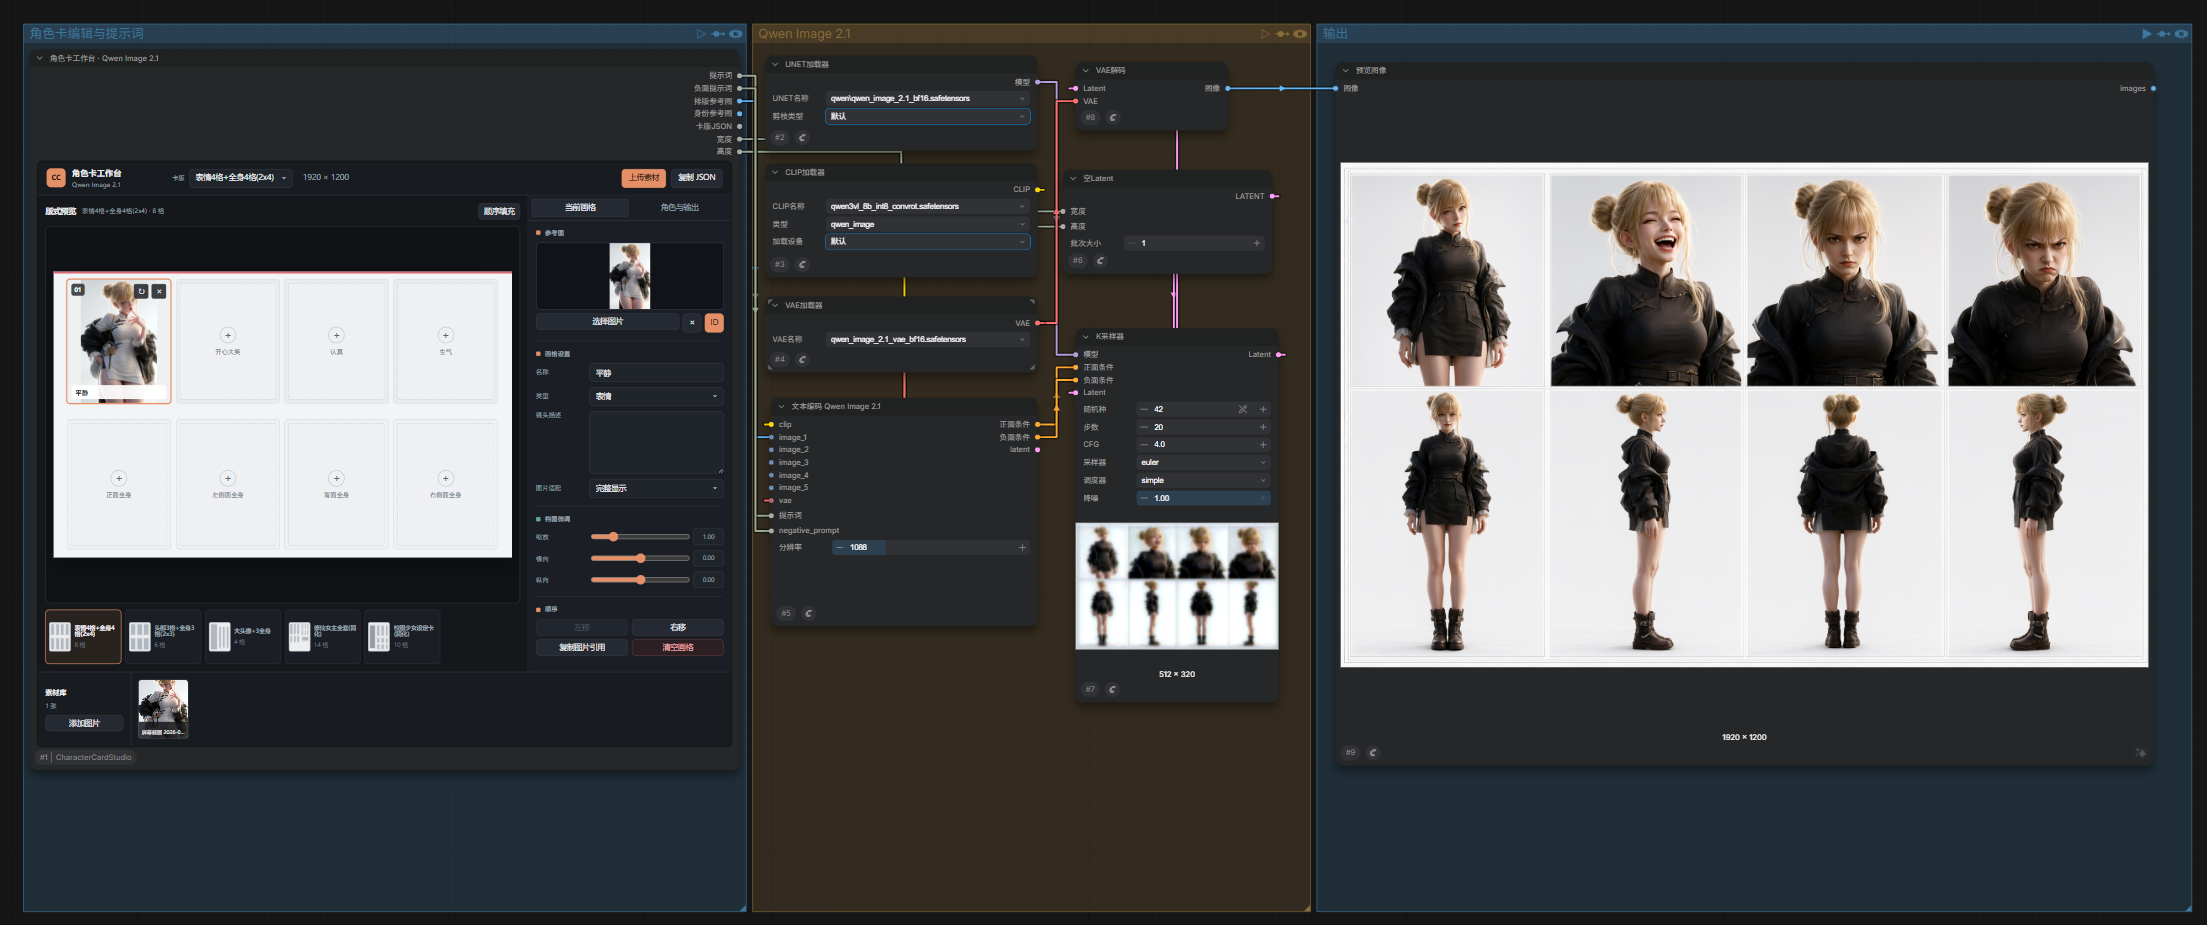
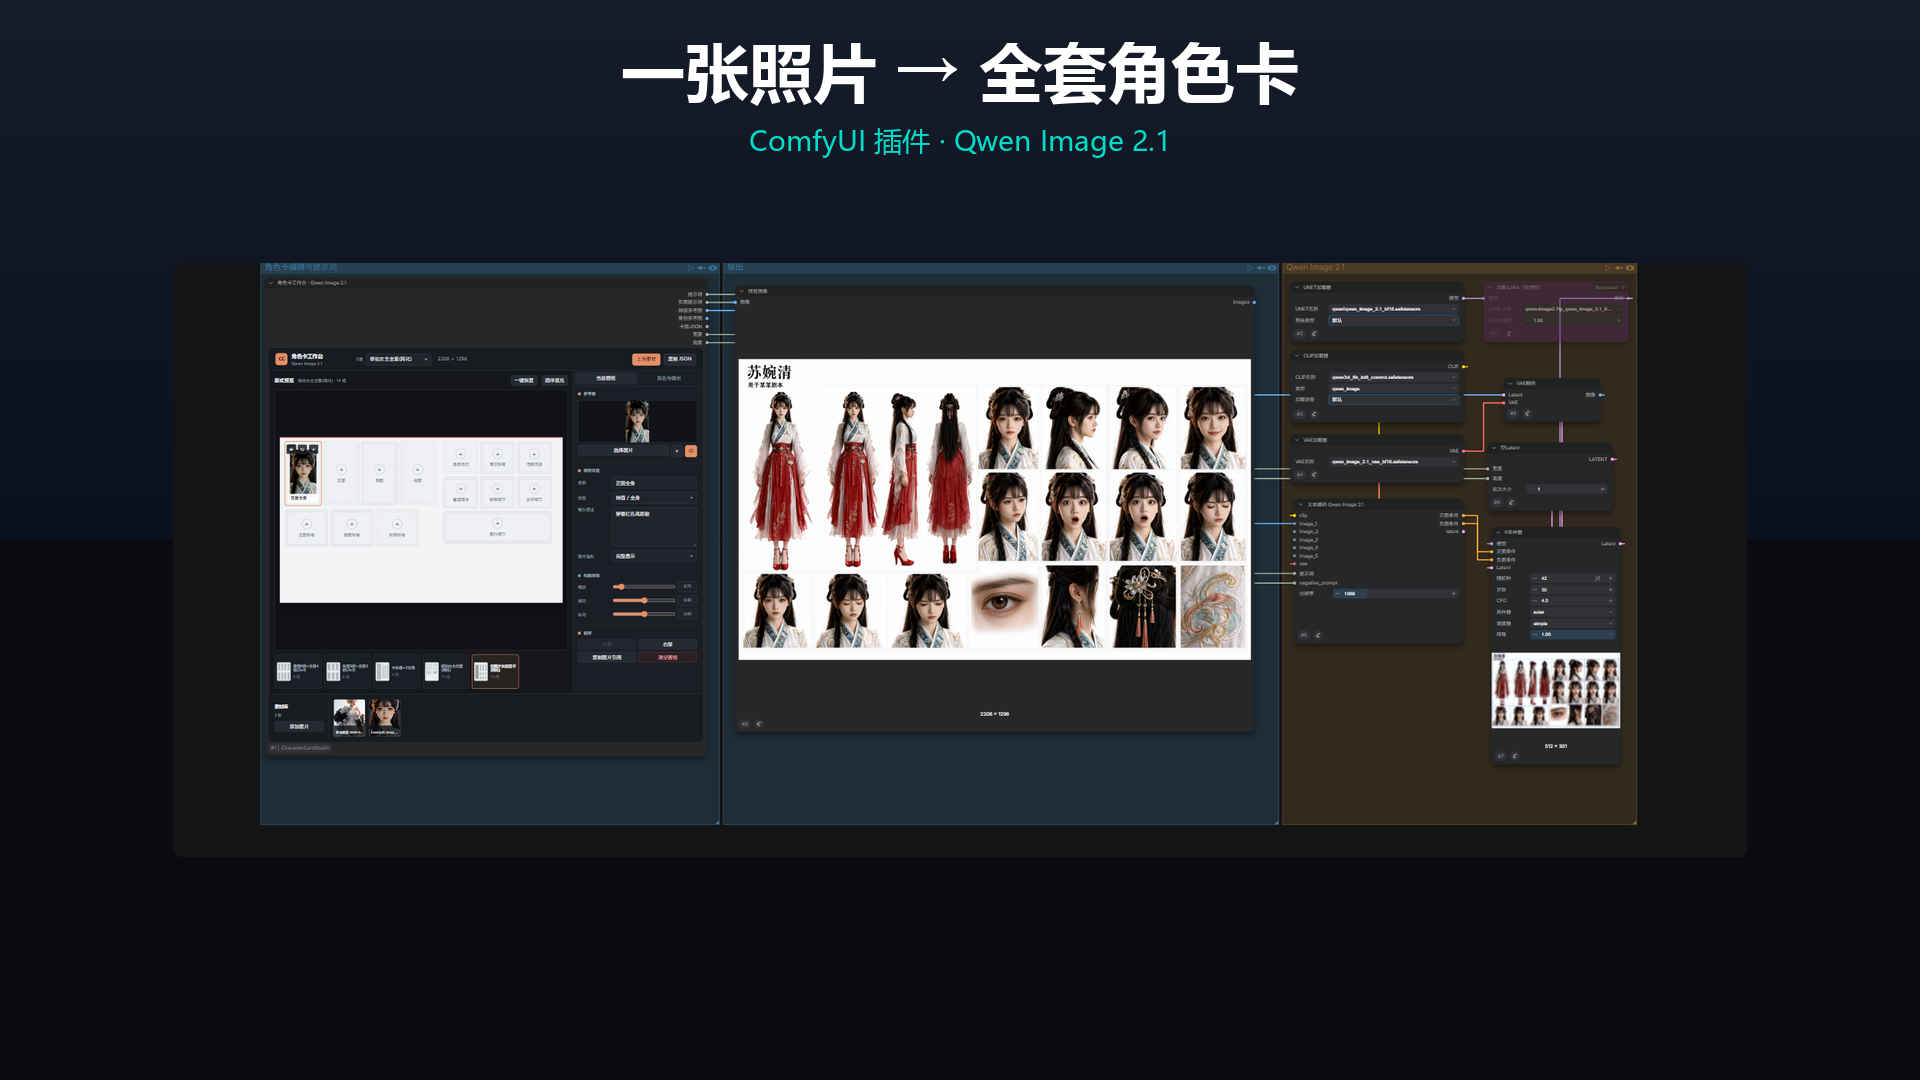
feat: 新增3套卡板，共8套按格子数排序，通用命名
1. 四格·偏立（4格）：左大头像+右3全身竖排
2. 四格·双帧（4格）：上2头+下2全身
3. 五格·正反（5格）：上2头(正/背)+下3全身
4. 六格·三视图（6格）：上3头(正/侧/背)+下3全身
5. 六格·斜帧（6格）：上3头(正/斜/背)+下3全身
6. 八格·表情谱（8格）：上4表情+下4全身
7. 十格·设定集（10格）：主立绘+三视图+表情+细节
8. 十四格·全图鉴（14格）：完整资产图鉴

diff --git a/templates.py b/templates.py
@@ -42,10 +42,120 @@ def _cell(
 
 
 TEMPLATES: list[dict[str, Any]] = [
-    # ===== 用户目标版式：上传一张图 → 输出干净多视图 =====
+    # ===== 1. 四格·偏立（4格：左大头像 + 右3全身竖排）=====
+    {
+        "id": "bighead_body3",
+        "name": "四格·偏立",
+        "description": "左侧一个超大头肩特写，右侧竖排正面/侧面/背面三个完整全身。",
+        "width": 1920,
+        "height": 1200,
+        "defaults": {
+            "title": "未命名角色",
+            "subtitle": "角色设定",
+            "style": "统一角色资产，纯白棚拍背景，柔和棚拍光，写实电影级",
+            "background": "#ffffff",
+            "accent": "#d86b73",
+        },
+        "cells": [
+            _cell("head_big", "大头像", "portrait", "超大头肩正面特写，五官清晰，正视镜头。", 0.03, 0.03, 0.40, 0.94),
+            _cell("body_front", "正面全身", "turnaround", "完整正面全身，头顶到鞋底。", 0.46, 0.12, 0.16, 0.78),
+            _cell("body_side", "侧面全身", "turnaround", "纯侧面全身，人物面朝画面正右方，只能看到左半边脸和左耳，头顶到鞋底。", 0.635, 0.12, 0.16, 0.78),
+            _cell("body_back", "背面全身", "turnaround", "完整180度背面全身，头顶到鞋底。", 0.81, 0.12, 0.16, 0.78),
+        ],
+    },
+    # ===== 2. 四格·双帧（4格：上排2头 + 下排2全身）=====
+    {
+        "id": "dualfour_ref",
+        "name": "四格·双帧",
+        "description": "上排正面头像+侧面头像，下排正面全身+背面全身。",
+        "width": 1920,
+        "height": 1200,
+        "defaults": {
+            "title": "未命名角色",
+            "subtitle": "双视设定",
+            "style": "统一角色资产，纯白棚拍背景，柔和棚拍光，写实电影级",
+            "background": "#ffffff",
+            "accent": "#6b8dd8",
+        },
+        "cells": [
+            _cell("head_front", "正面头像", "portrait", "头肩正面特写，正视镜头。", 0.03, 0.03, 0.46, 0.43),
+            _cell("head_side", "侧面头像", "portrait", "头肩90度侧面特写，人物面朝画面正右方，只能看到左半边脸和左耳。", 0.51, 0.03, 0.46, 0.43),
+            _cell("body_front", "正面全身", "turnaround", "完整正面全身，正视镜头，头顶到鞋底。", 0.03, 0.52, 0.46, 0.45),
+            _cell("body_back", "背面全身", "turnaround", "完整180度背面全身，头顶到鞋底。", 0.51, 0.52, 0.46, 0.45),
+        ],
+    },
+    # ===== 3. 五格·正反（5格：上排2头 + 下排3全身）=====
+    {
+        "id": "fiveref",
+        "name": "五格·正反",
+        "description": "上排正面头像+背面头像，下排正面/侧面/背面三个完整全身。",
+        "width": 1920,
+        "height": 1200,
+        "defaults": {
+            "title": "未命名角色",
+            "subtitle": "五视设定",
+            "style": "统一角色资产，纯白棚拍背景，柔和棚拍光，写实电影级",
+            "background": "#ffffff",
+            "accent": "#65a89a",
+        },
+        "cells": [
+            _cell("head_front", "正面头像", "portrait", "头肩正面特写，正视镜头。", 0.03, 0.03, 0.47, 0.43),
+            _cell("head_back", "背面头像", "portrait", "头肩背面特写，展示后脑发型。", 0.50, 0.03, 0.47, 0.43),
+            _cell("body_front", "正面全身", "turnaround", "完整正面全身，正视镜头，头顶到鞋底。", 0.03, 0.52, 0.305, 0.45),
+            _cell("body_side", "侧面全身", "turnaround", "纯侧面全身，人物面朝画面正右方，只能看到左半边脸和左耳，头顶到鞋底。", 0.348, 0.52, 0.305, 0.45),
+            _cell("body_back", "背面全身", "turnaround", "完整180度背面全身，头顶到鞋底。", 0.665, 0.52, 0.305, 0.45),
+        ],
+    },
+    # ===== 4. 六格·三视图（6格：上排3头 + 下排3全身）=====
+    {
+        "id": "head_body_6",
+        "name": "六格·三视图",
+        "description": "上排头肩正面/侧面/后脑，下排正面/侧面/背面完整全身。",
+        "width": 1920,
+        "height": 1280,
+        "defaults": {
+            "title": "未命名角色",
+            "subtitle": "三视图设定",
+            "style": "统一角色资产，纯白棚拍背景，柔和棚拍光，写实电影级",
+            "background": "#ffffff",
+            "accent": "#6b8dd8",
+        },
+        "cells": [
+            _cell("head_front", "正面头像", "portrait", "头肩正面特写，正视镜头。", 0.03, 0.03, 0.303, 0.43),
+            _cell("head_side", "侧面头像", "portrait", "头肩90度侧面特写，人物面朝画面正右方，只能看到左半边脸和左耳。", 0.345, 0.03, 0.303, 0.43),
+            _cell("head_back", "后脑头像", "portrait", "头肩背面特写，展示后脑发型。", 0.66, 0.03, 0.303, 0.43),
+            _cell("body_front", "正面全身", "turnaround", "完整正面全身，正视镜头，头顶到鞋底。", 0.03, 0.52, 0.303, 0.45),
+            _cell("body_side", "侧面全身", "turnaround", "纯侧面全身，人物面朝画面正右方，只能看到左半边脸和左耳，头顶到鞋底。", 0.345, 0.52, 0.303, 0.45),
+            _cell("body_back", "背面全身", "turnaround", "完整180度背面全身，头顶到鞋底。", 0.66, 0.52, 0.303, 0.45),
+        ],
+    },
+    # ===== 5. 六格·斜帧（6格：上排3头含四分之三视角 + 下排3全身）=====
+    {
+        "id": "sixtilt_ref",
+        "name": "六格·斜帧",
+        "description": "上排正面/四分之三斜侧/后脑三个头像，下排正面/侧面/背面三个完整全身。",
+        "width": 1920,
+        "height": 1280,
+        "defaults": {
+            "title": "未命名角色",
+            "subtitle": "斜侧设定",
+            "style": "统一角色资产，纯白棚拍背景，柔和棚拍光，写实电影级",
+            "background": "#ffffff",
+            "accent": "#9b7dd8",
+        },
+        "cells": [
+            _cell("head_front", "正面头像", "portrait", "头肩正面特写，正视镜头。", 0.03, 0.03, 0.303, 0.43),
+            _cell("head_three_quarter", "斜侧头像", "portrait", "头肩四分之三斜侧特写，脸朝画面右前方，眼神看向镜头。", 0.345, 0.03, 0.303, 0.43),
+            _cell("head_back", "后脑头像", "portrait", "头肩背面特写，展示后脑发型。", 0.66, 0.03, 0.303, 0.43),
+            _cell("body_front", "正面全身", "turnaround", "完整正面全身，正视镜头，头顶到鞋底。", 0.03, 0.52, 0.303, 0.45),
+            _cell("body_side", "侧面全身", "turnaround", "纯侧面全身，人物面朝画面正右方，只能看到左半边脸和左耳，头顶到鞋底。", 0.345, 0.52, 0.303, 0.45),
+            _cell("body_back", "背面全身", "turnaround", "完整180度背面全身，头顶到鞋底。", 0.66, 0.52, 0.303, 0.45),
+        ],
+    },
+    # ===== 6. 八格·表情谱（8格：上排4表情 + 下排4全身）=====
     {
         "id": "expr_body_8",
-        "name": "表情4格+全身4格(2x4)",
+        "name": "八格·表情谱",
         "description": "上排4个头肩表情，下排4个完整全身（正/侧/背/另一侧）。",
         "width": 1920,
         "height": 1200,
@@ -67,58 +177,44 @@ TEMPLATES: list[dict[str, Any]] = [
             _cell("body_back", "背面全身", "turnaround", "完整180度背面全身，只能看到后脑和后背，头顶到鞋底。", 0.743, 0.52, 0.225, 0.45),
         ],
     },
+    # ===== 7. 十格·设定集（10格：主立绘+3全身+3表情+3细节）=====
     {
-        "id": "head_body_6",
-        "name": "头部3格+全身3格(2x3)",
-        "description": "上排头肩正面/侧面/后脑，下排正面/侧面/背面完整全身。",
-        "width": 1920,
-        "height": 1280,
+        "id": "school_ref",
+        "name": "十格·设定集",
+        "description": "左侧主立绘，右上三视图，右下表情参考与细节拆解。",
+        "width": 2000,
+        "height": 1400,
         "defaults": {
             "title": "未命名角色",
-            "subtitle": "三视图设定",
-            "style": "统一角色资产，纯白棚拍背景，柔和棚拍光，写实电影级",
+            "subtitle": "角色设定集",
+            "style": "统一角色资产，纯白棚拍背景，柔和棚拍光",
             "background": "#ffffff",
-            "accent": "#6b8dd8",
+            "accent": "#e08a9a",
         },
         "cells": [
-            _cell("head_front", "正面头像", "portrait", "头肩正面特写，正视镜头。", 0.03, 0.03, 0.303, 0.43),
-            _cell("head_side", "侧面头像", "portrait", "头肩90度侧面特写，人物面朝画面正右方，只能看到左半边脸和左耳。", 0.345, 0.03, 0.303, 0.43),
-            _cell("head_back", "后脑头像", "portrait", "头肩背面特写，展示后脑发型。", 0.66, 0.03, 0.303, 0.43),
-            _cell("body_front", "正面全身", "turnaround", "完整正面全身，正视镜头，头顶到鞋底。", 0.03, 0.52, 0.303, 0.45),
-            _cell("body_side", "侧面全身", "turnaround", "纯侧面全身，人物面朝画面正右方，只能看到左半边脸和左耳，头顶到鞋底。", 0.345, 0.52, 0.303, 0.45),
-            _cell("body_back", "背面全身", "turnaround", "完整180度背面全身，头顶到鞋底。", 0.66, 0.52, 0.303, 0.45),
+            _cell("hero", "主立绘", "hero", "完整全身主立绘，自然站姿，头顶到鞋底。", 0.03, 0.08, 0.30, 0.86),
+            _cell("body_front", "正面", "turnaround", "完整正面全身，正视镜头，头顶到鞋底。", 0.36, 0.08, 0.20, 0.40),
+            _cell("body_side", "侧面", "turnaround", "纯侧面全身，人物面朝画面正右方，只能看到左半边脸和左耳，头顶到鞋底。", 0.58, 0.08, 0.20, 0.40),
+            _cell("body_back", "背面", "turnaround", "完整180度背面全身，头顶到鞋底。", 0.80, 0.08, 0.17, 0.40),
+            _cell("ex_1", "微笑", "expression", "头肩特写，张嘴露齿微笑，眼睛弯成月牙，充满活力。", 0.36, 0.52, 0.20, 0.20),
+            _cell("ex_2", "沉思", "expression", "头肩特写，低头眼帘下垂，侧脸不看镜头，表情安静。", 0.58, 0.52, 0.20, 0.20),
+            _cell("ex_3", "惊讶", "expression", "头肩特写，张嘴惊呼，眼睛瞪大。", 0.80, 0.52, 0.17, 0.20),
+            _cell("de_1", "服装细节", "detail", "服饰面料特写。", 0.36, 0.75, 0.20, 0.20),
+            _cell("de_2", "配饰细节", "detail", "配饰特写。", 0.58, 0.75, 0.20, 0.20),
+            _cell("de_3", "鞋履细节", "detail", "鞋履特写。", 0.80, 0.75, 0.17, 0.20),
         ],
     },
-    {
-        "id": "bighead_body3",
-        "name": "大头像+3全身",
-        "description": "左侧一个超大头肩特写，右侧竖排正面/侧面/背面三个完整全身。",
-        "width": 1920,
-        "height": 1200,
-        "defaults": {
-            "title": "未命名角色",
-            "subtitle": "角色设定",
-            "style": "统一角色资产，纯白棚拍背景，柔和棚拍光，写实电影级",
-            "background": "#ffffff",
-            "accent": "#d86b73",
-        },
-        "cells": [
-            _cell("head_big", "大头像", "portrait", "超大头肩正面特写，五官清晰，正视镜头。", 0.03, 0.03, 0.40, 0.94),
-            _cell("body_front", "正面全身", "turnaround", "完整正面全身，头顶到鞋底。", 0.46, 0.12, 0.16, 0.78),
-            _cell("body_side", "侧面全身", "turnaround", "纯侧面全身，人物面朝画面正右方，只能看到左半边脸和左耳，头顶到鞋底。", 0.635, 0.12, 0.16, 0.78),
-            _cell("body_back", "背面全身", "turnaround", "完整180度背面全身，头顶到鞋底。", 0.81, 0.12, 0.16, 0.78),
-        ],
-    },
+    # ===== 8. 十四格·全图鉴（14格：4全身+3头+3表情+3细节+1面料）=====
     {
         "id": "xianxia_ref",
-        "name": "修仙女主全套(简化)",
-        "description": "左上4个完整全身，左下3个头肩特写，右侧表情6宫格+细节。",
+        "name": "十四格·全图鉴",
+        "description": "左上4个完整全身，左下3个头肩特写，右侧表情6宫格+细节拆解。",
         "width": 2200,
         "height": 1300,
         "defaults": {
-            "title": "修仙女主",
-            "subtitle": "人物多视图设定",
-            "style": "古风修仙角色资产，纯白棚拍背景，柔和棚拍光，写实精致",
+            "title": "未命名角色",
+            "subtitle": "完整图鉴",
+            "style": "统一角色资产，纯白棚拍背景，柔和棚拍光，写实精致",
             "background": "#ffffff",
             "accent": "#7a9bd8",
         },
@@ -135,34 +231,8 @@ TEMPLATES: list[dict[str, Any]] = [
             _cell("ex_3", "闭眼沉思", "expression", "头肩特写，闭眼沉思，眼帘低垂，嘴唇微抿。", 0.84, 0.03, 0.12, 0.19),
             _cell("ex_4", "蹙眉清冷", "expression", "头肩特写，蹙眉清冷，眉头微皱，眼神冷峻直视。", 0.58, 0.24, 0.12, 0.19),
             _cell("de_1", "眼部细节", "detail", "眼睛微距特写，展示瞳色和睫毛。", 0.71, 0.24, 0.12, 0.19),
-            _cell("de_2", "发饰细节", "detail", "发饰或耳饰微距特写。", 0.84, 0.24, 0.12, 0.19),
-            _cell("de_3", "面料细节", "detail", "服饰面料刺绣微距特写。", 0.58, 0.45, 0.38, 0.19),
-        ],
-    },
-    {
-        "id": "school_ref",
-        "name": "校服少女设定卡(简化)",
-        "description": "左侧主立绘，右上三视图，右下服装拆解与表情参考。",
-        "width": 2000,
-        "height": 1400,
-        "defaults": {
-            "title": "校服少女",
-            "subtitle": "角色设定",
-            "style": "学院风角色资产，纯白棚拍背景，柔和棚拍光",
-            "background": "#ffffff",
-            "accent": "#e08a9a",
-        },
-        "cells": [
-            _cell("hero", "主立绘", "hero", "完整全身主立绘，自然站姿，头顶到鞋底。", 0.03, 0.08, 0.30, 0.86),
-            _cell("body_front", "正面", "turnaround", "完整正面全身，正视镜头，头顶到鞋底。", 0.36, 0.08, 0.20, 0.40),
-            _cell("body_side", "侧面", "turnaround", "纯侧面全身，人物面朝画面正右方，只能看到左半边脸和左耳，头顶到鞋底。", 0.58, 0.08, 0.20, 0.40),
-            _cell("body_back", "背面", "turnaround", "完整180度背面全身，头顶到鞋底。", 0.80, 0.08, 0.17, 0.40),
-            _cell("ex_1", "甜美微笑", "expression", "头肩特写，张嘴露齿甜笑，眼睛弯成月牙，充满活力。", 0.36, 0.52, 0.20, 0.20),
-            _cell("ex_2", "低头沉思", "expression", "头肩特写，低头眼帘下垂，侧脸不看镜头，表情安静。", 0.58, 0.52, 0.20, 0.20),
-            _cell("ex_3", "惊讶张嘴", "expression", "头肩特写，张嘴惊呼，眼睛瞪大，手轻抬下巴。", 0.80, 0.52, 0.17, 0.20),
-            _cell("de_1", "服装细节", "detail", "衬衫或马甲面料特写。", 0.36, 0.75, 0.20, 0.20),
-            _cell("de_2", "配饰细节", "detail", "领结或发饰特写。", 0.58, 0.75, 0.20, 0.20),
-            _cell("de_3", "鞋履细节", "detail", "乐福鞋特写。", 0.80, 0.75, 0.17, 0.20),
+            _cell("de_2", "配饰细节", "detail", "配饰微距特写。", 0.84, 0.24, 0.12, 0.19),
+            _cell("de_3", "面料细节", "detail", "服饰面料微距特写。", 0.58, 0.45, 0.38, 0.19),
         ],
     },
 ]
@@ -170,7 +240,10 @@ TEMPLATES: list[dict[str, Any]] = [
 TEMPLATE_BY_ID = {template["id"]: template for template in TEMPLATES}
 FIVE_TEMPLATE_IDS = [
     "bighead_body3",
+    "dualfour_ref",
+    "fiveref",
     "head_body_6",
+    "sixtilt_ref",
     "expr_body_8",
     "school_ref",
     "xianxia_ref",
@@ -178,7 +251,7 @@ FIVE_TEMPLATE_IDS = [
 FIVE_TEMPLATE_OPTIONS = [f"{template_id} | {TEMPLATE_BY_ID[template_id]['name']}" for template_id in FIVE_TEMPLATE_IDS]
 TEMPLATE_OPTIONS = [f"{template['id']} | {template['name']}" for template in TEMPLATES]
 DEFAULT_TEMPLATE_OPTION = next(
-    (option for option in TEMPLATE_OPTIONS if option.startswith("expr_body_8 |")),
+    (option for option in TEMPLATE_OPTIONS if option.startswith("head_body_6 |")),
     TEMPLATE_OPTIONS[0],
 )
 SOURCE_TEMPLATE_OPTIONS = ["source | 与输入卡版相同", *TEMPLATE_OPTIONS]
